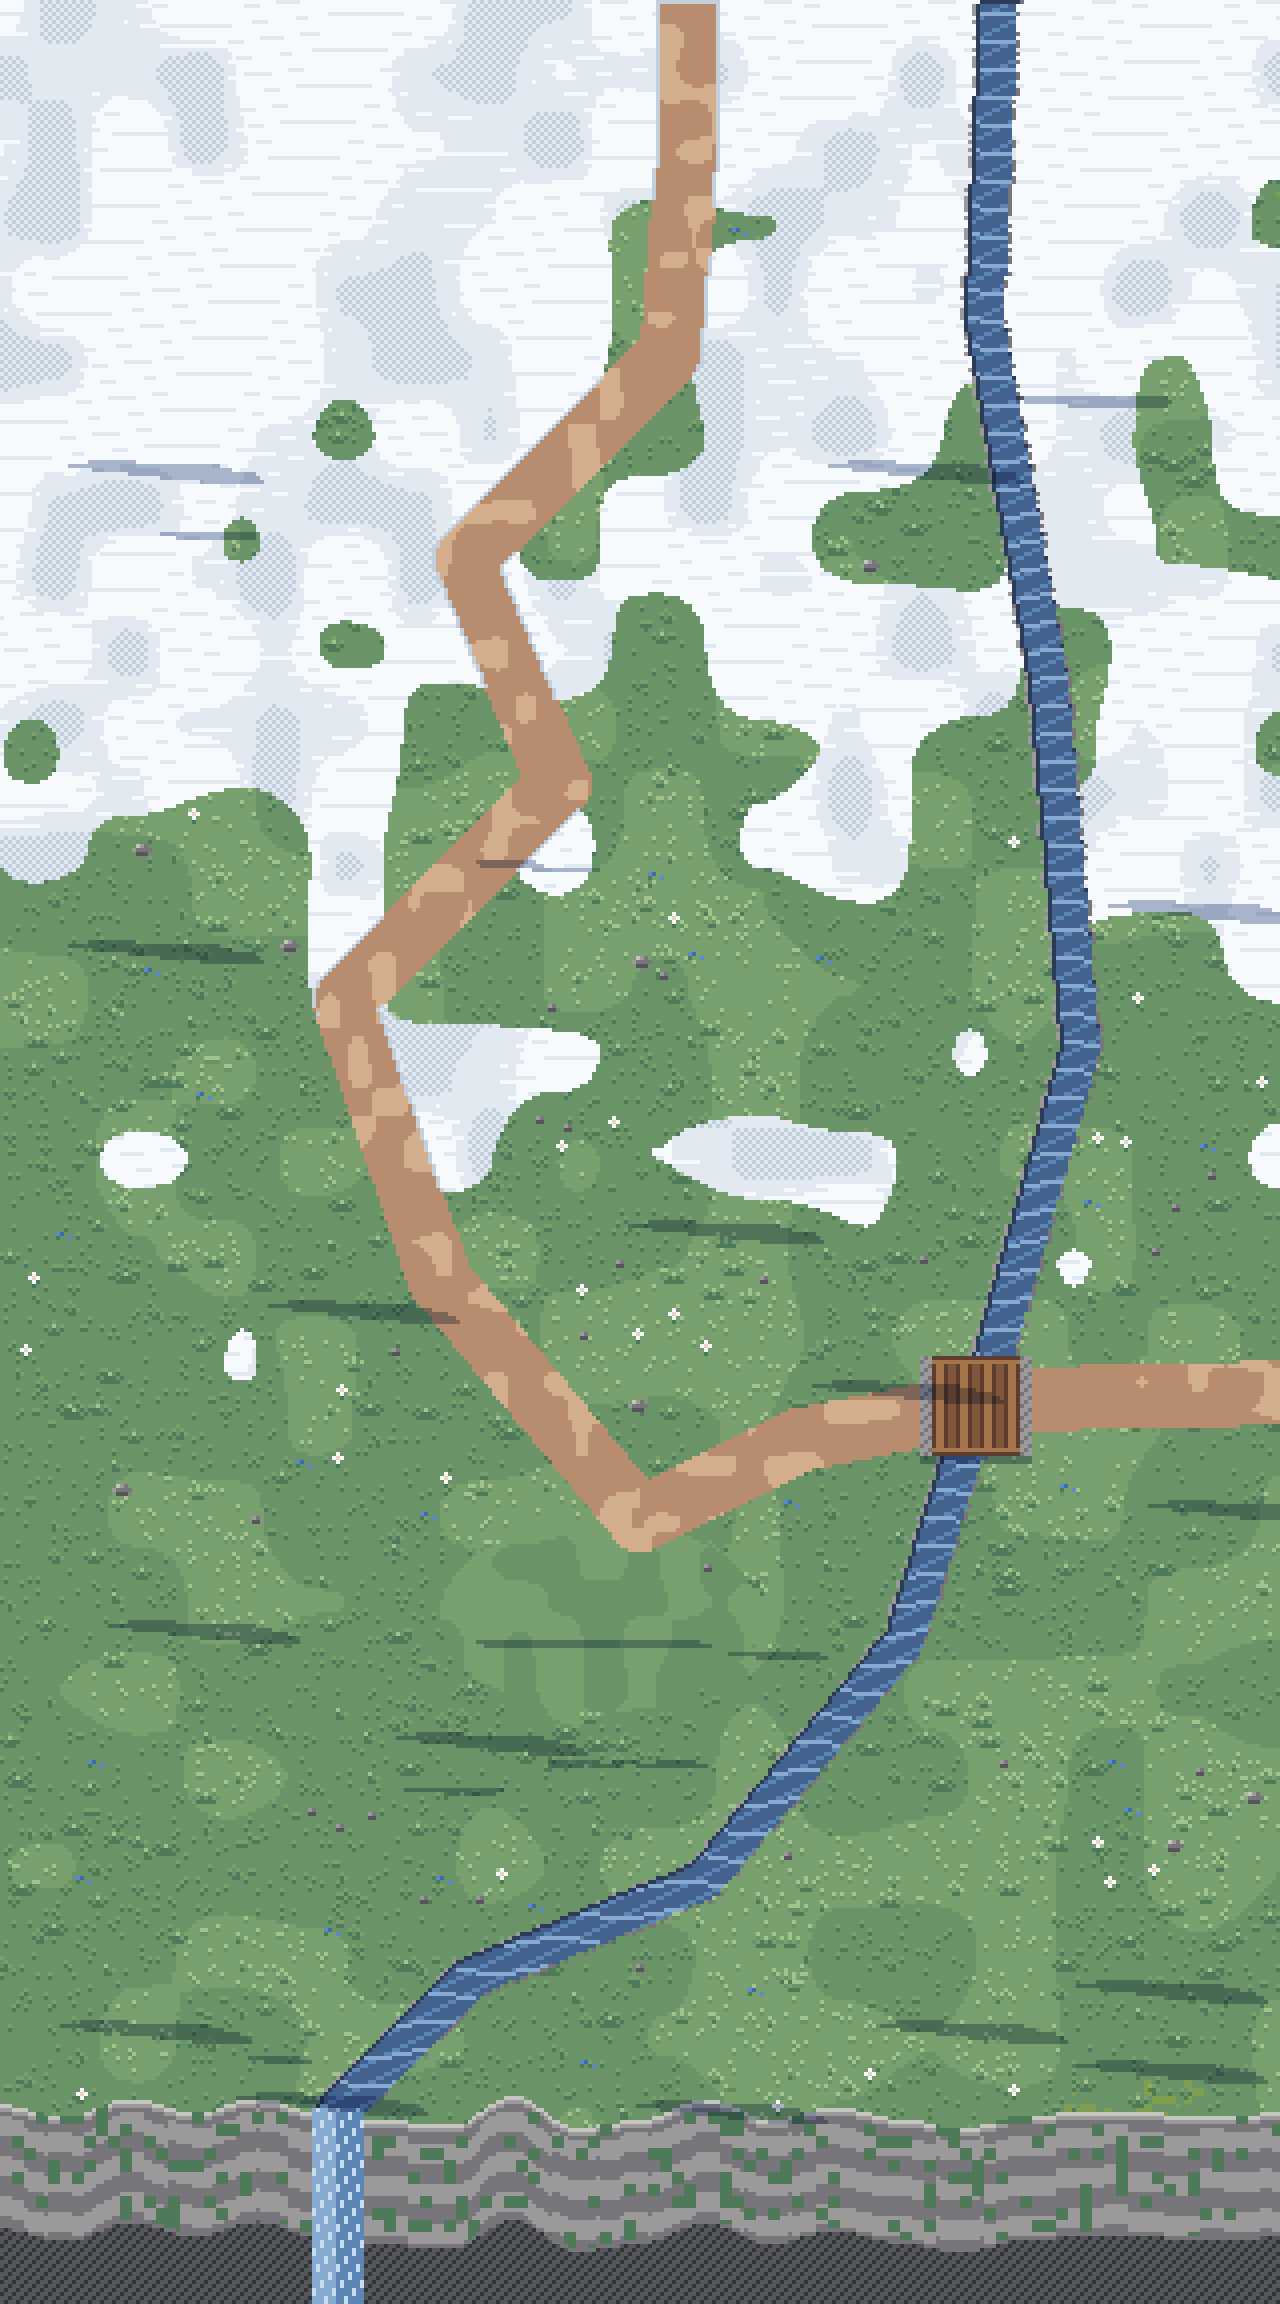
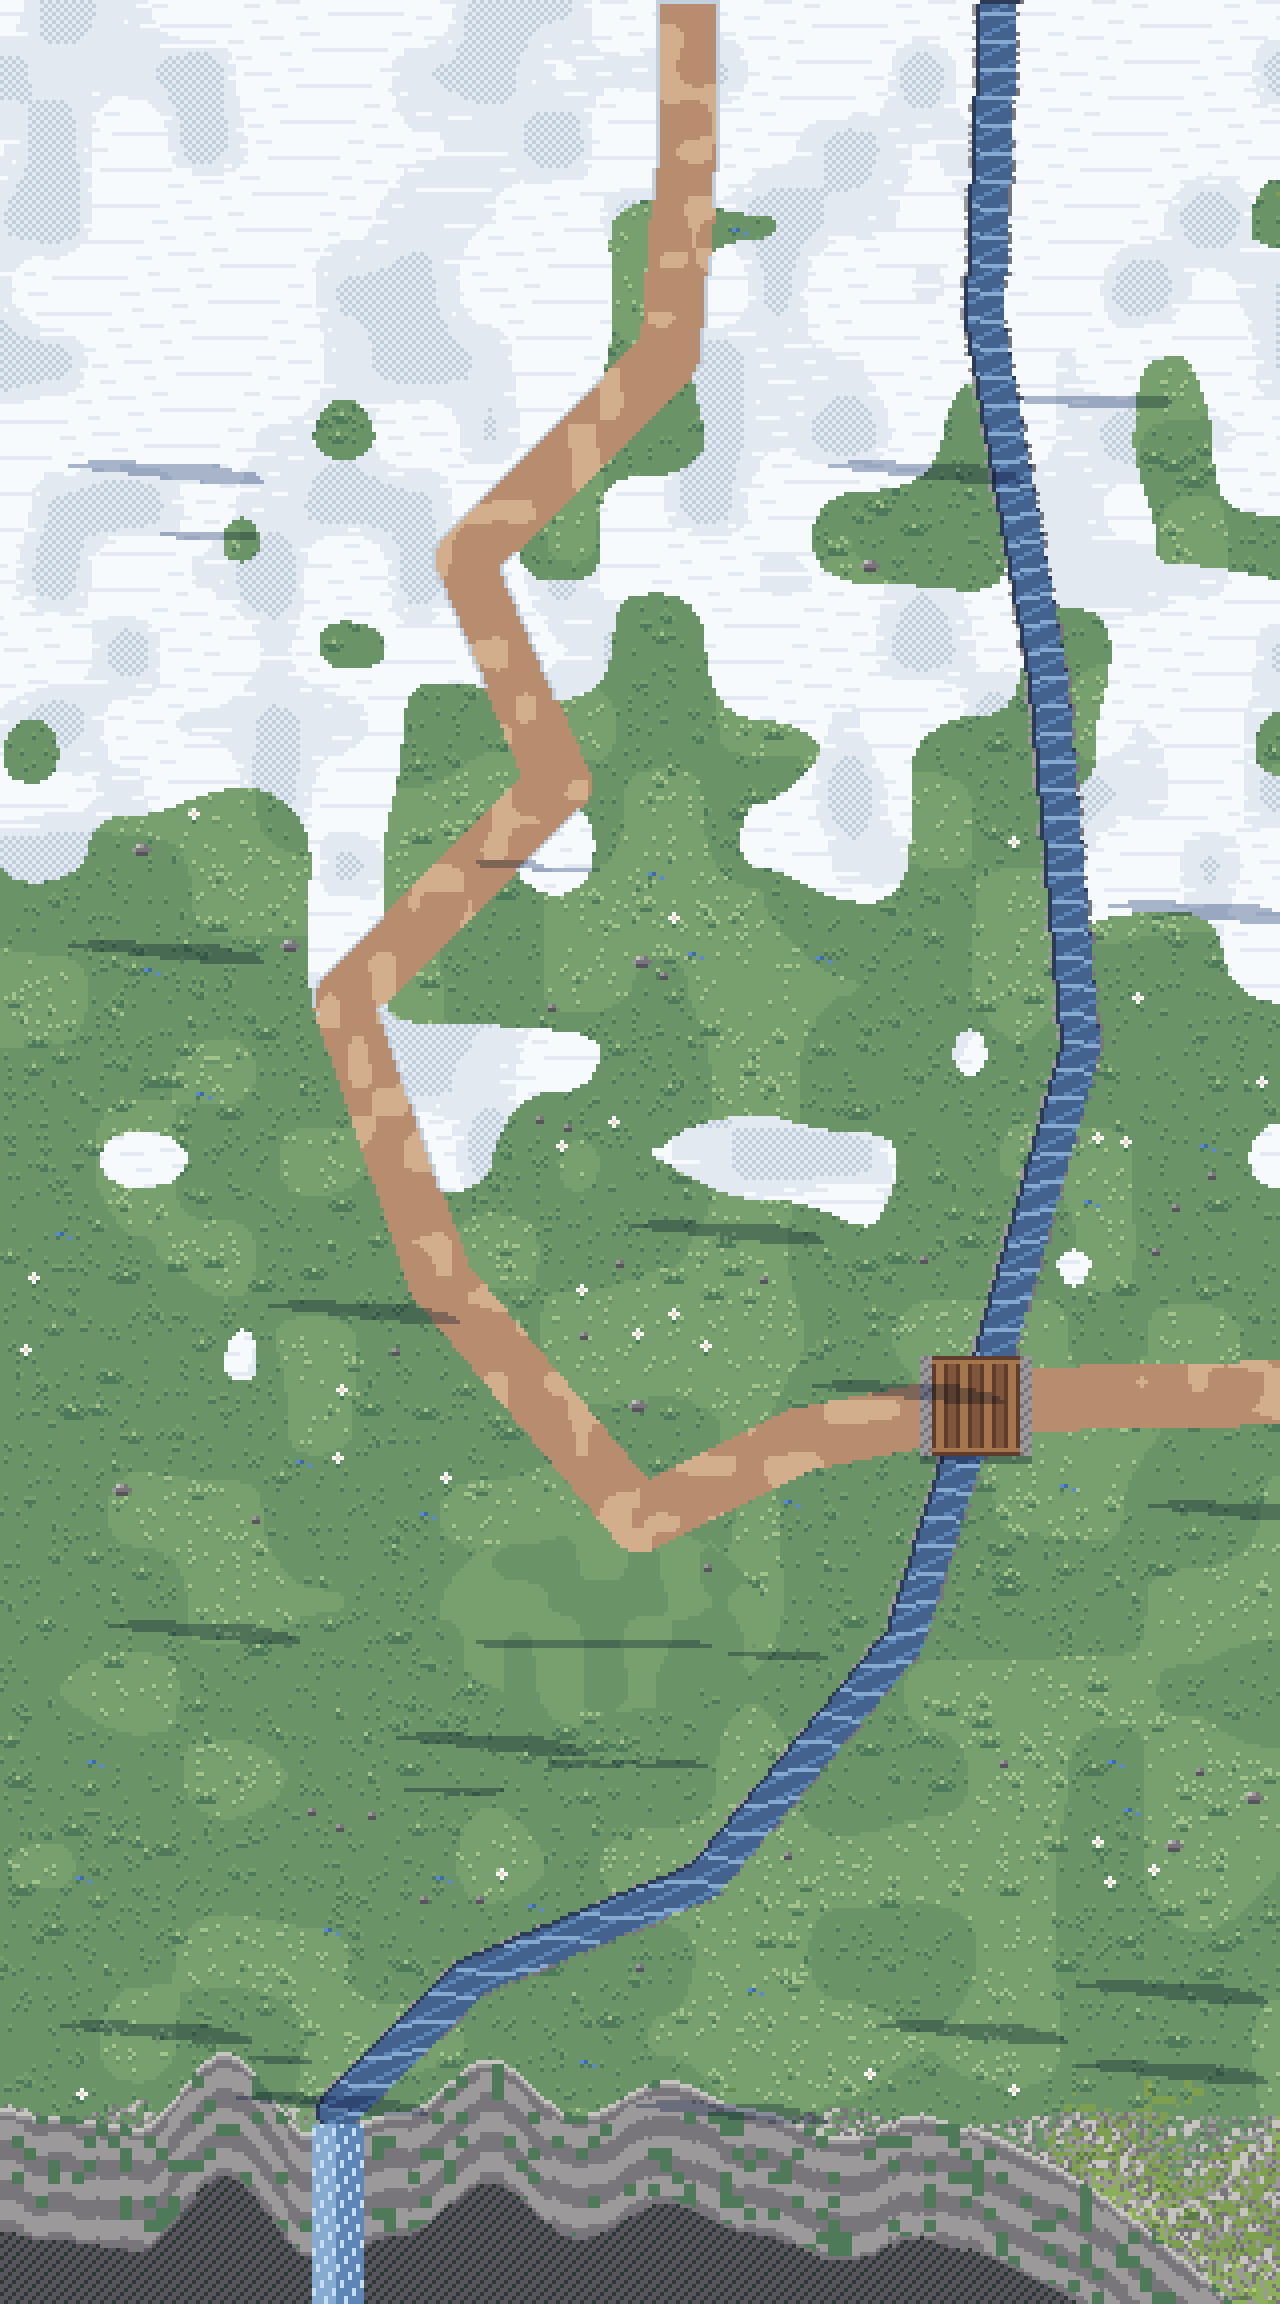
Review 15:54 for Claude A: a zone whose art reaches into the view (a tower rising from the zone below) is mounted while it is seen, with a test; region renders (ZONE_PREVIEW and LINT_OUT) drawn from every prop in region coordinates, so buildings are drawn whole; the Hollow's escarpment wanders off t
Claude-Session: https://claude.ai/code/session_01UudrmtYkicLNgZeuSjvjrK

Changed region(s): [[0.0625, 0.875, 1.0, 1.0], [0.0, 0.9062, 0.0312, 0.9688]]

diff --git a/lib/region-walk.ts b/lib/region-walk.ts
@@ -253,10 +253,50 @@ export function zonesToMount(
     new Set(cellsNear(region, view, m).map(({ col, row }) => `${col},${row}`));
   const close = near(margin);
   const kept = near(margin * 2);
+  const b = regionBounds(region);
+  // (a zone whose art reaches into the view, a tower standing in it whose body rises into
+  // the zone above, is mounted too, or the tower would vanish as its foot leaves the view)
+  const reaches = (t: RegionTile, m: number) => {
+    const r = zoneReach(t.id);
+    if (!r) return false;
+    const ox = (t.col - b.minCol) * TILE.width;
+    const oy = (t.row - b.minRow) * TILE.height;
+    return (
+      ox + r.x0 < view.x1 + m &&
+      ox + r.x1 > view.x0 - m &&
+      oy + r.y0 < view.y1 + m &&
+      oy + r.y1 > view.y0 - m
+    );
+  };
   return tiles
     .filter(
       (t) =>
-        close.has(`${t.col},${t.row}`) || (mounted.includes(t.id) && kept.has(`${t.col},${t.row}`)),
+        close.has(`${t.col},${t.row}`) ||
+        reaches(t, margin) ||
+        (mounted.includes(t.id) && (kept.has(`${t.col},${t.row}`) || reaches(t, margin * 2))),
     )
     .map((t) => t.id);
+}
+
+/** How far a zone's props reach past its own rectangle (zone pixels, its origin at 0, 0),
+ *  or none when they all stay inside it. */
+const reachCache = new Map<TileId, RegionRect | null>();
+export function zoneReach(id: TileId): RegionRect | null {
+  if (reachCache.has(id)) return reachCache.get(id) ?? null;
+  let r: RegionRect | null = null;
+  if (id !== 'garden') {
+    let x0 = 0;
+    let y0 = 0;
+    let x1: number = TILE.width;
+    let y1: number = TILE.height;
+    for (const [, , x, y, w, h] of zoneMaps[id].objects) {
+      x0 = Math.min(x0, x);
+      y0 = Math.min(y0, y);
+      x1 = Math.max(x1, x + w);
+      y1 = Math.max(y1, y + h);
+    }
+    if (x0 < 0 || y0 < 0 || x1 > TILE.width || y1 > TILE.height) r = { x0, y0, x1, y1 };
+  }
+  reachCache.set(id, r);
+  return r;
 }

diff --git a/lib/region-walk.test.ts b/lib/region-walk.test.ts
@@ -9,6 +9,8 @@ import {
   tileAt,
   tileOrigin,
   TILE,
+  zoneReach,
+  zonesToMount,
   type RegionId,
 } from './region-walk';
 import { regionLayout, zoneMaps, zoneOverhead, zonePorts } from './zone-maps';
@@ -209,4 +211,26 @@ const isRegion = (k: string): k is RegionId => k in regionLayout;
   console.log(
     'Two levels: a deck is reached only by its stairs, and both ends of a stair are kept.',
   );
+}
+
+// A zone whose art reaches out of its rectangle (a tower whose body rises into the zone
+// above) is mounted while that art is in view, even with its own rectangle out of view.
+{
+  let towers = 0;
+  for (const key of Object.keys(regionLayout)) {
+    if (!isRegion(key)) continue;
+    for (const t of regionTiles(key)) {
+      const r = zoneReach(t.id);
+      if (!r || r.y0 > -80) continue;
+      const o = tileOrigin(key, t);
+      // a thin view across the top of the overhang only, well above the zone itself
+      const view = { x0: o.x, x1: o.x + TILE.width, y0: o.y + r.y0, y1: o.y + r.y0 + 20 };
+      assert.ok(
+        zonesToMount(key, view).includes(t.id),
+        `${key}: ${t.id} is mounted while its art reaching ${-r.y0} px above it is in view`,
+      );
+      towers++;
+    }
+  }
+  console.log(`Mounting: ${towers} zones with art reaching far above them mount while it is seen.`);
 }

diff --git a/lib/zone-maps.ts b/lib/zone-maps.ts
@@ -1255,11 +1255,11 @@ export const zoneMaps: Record<ZoneId, ZoneMap> = {
       '2.9#14.5#23.9#18.',
       '2.9#13.5#24.9#4.8#6.',
       '16.2#5.5#38.8#6.',
-      '13.14#39.8#6.',
-      '13.13#12.9#33.',
-      '13.12#13.9#33.',
-      '2#3.6#2.11#6.4#4.9#4.3#26.',
-      '36#1.22#2.19#',
+      '12.15#2.3#34.8#6.',
+      '12.14#2.5#5.9#33.',
+      '11.14#2.7#4.9#33.',
+      '2#3.19#1.10#2.11#3.3#26.',
+      '80#',
       '80#',
       '80#',
       '80#',
@@ -7470,11 +7470,11 @@ export const zoneTerrain: Record<ZoneId, readonly string[]> = {
     '26.3~51.',
     '25.3~52.',
     '24.3~53.',
-    '23.3~54.',
-    '22.3~55.',
-    '21.3~56.',
-    '7.3^4.4^2.3~8.2^10.1~1^35.',
-    '19^4~6.6^5.8^1.7^7.17^',
+    '13.2^8.3~54.',
+    '12.4^6.3~4.3^48.',
+    '11.6^4.3~4.5^7.3^37.',
+    '7.3^1.7^2.3~4.8^3.3^3~1^1~34.',
+    '20^3~25^1~10^4.17^',
     '19^4~57^',
     '19^4~57^',
     '19^4~57^',

diff --git a/scripts/art/world_lint.py b/scripts/art/world_lint.py
@@ -374,21 +374,42 @@ def run(built: dict, layout: dict, sprites_of, overhead, previews: dict | None =
         with open(os.path.join(out, 'world-lint.txt'), 'w') as f:
             for v in sorted(violations):
                 f.write(f'{v[0]:10} {v[1]:18} {v[2]:16} {v[4]}\n')
-        if previews is not None:
-            _stitch(out, layout, previews, zones, violations)
+    # each region drawn whole (with ZONE_PREVIEW or LINT_OUT): reviews look at these
+    for folder in {d for d in (out, os.environ.get('ZONE_PREVIEW')) if d}:
+        os.makedirs(folder, exist_ok=True)
+        _stitch(folder, layout, previews or {}, zones, violations if folder == out else [], built, overhead)
     return violations
 
 
-def _stitch(out, layout, previews, zones, violations):
+def _stitch(out, layout, previews, zones, violations, built=None, overhead=()):
+    """A region drawn whole: every zone's ground, then every prop in region coordinates,
+    sorted by its foot across the whole region (overhead ones last), so a tower whose
+    body rises into the zone above is drawn whole, as the game draws it."""
     for region, places in layout.items():
         cols = [c for c, _r in places.values()]
         rows = [r for _c, r in places.values()]
         c0, r0 = min(cols), min(rows)
         img = Image.new('RGBA', ((max(cols) - c0 + 1) * W, (max(rows) - r0 + 1) * H), (30, 25, 23, 255))
+        props = []
         for z, (c, r) in places.items():
+            ox, oy = (c - c0) * W, (r - r0) * H
+            if built is not None and z in built:
+                img.alpha_composite(built[z]['ground_img'].convert('RGBA'), (ox, oy))
+                for (_oid, key, x, y) in built[z]['objects']:
+                    sp = built[z]['sprites'][key]
+                    props.append((oy + y + sp.h + (100000 if key in overhead else 0), ox + x, oy + y, sp))
+                continue
             src = previews.get(z) or (zones[z]['ground'] if z in zones else None)
             if src is not None:
-                img.alpha_composite(src.convert('RGBA'), ((c - c0) * W, (r - r0) * H))
+                img.alpha_composite(src.convert('RGBA'), (ox, oy))
+        for (_z, px, py, sp) in sorted(props, key=lambda p: p[0]):
+            pad = getattr(sp, 'pad', 0)
+            spr = sp.img.crop((pad, pad, pad + sp.w, pad + sp.h)).convert('RGBA')
+            # (clipped to the region picture: a prop may reach past the region's edge)
+            cx, cy = max(0, -px), max(0, -py)
+            if cx >= sp.w or cy >= sp.h or px >= img.width or py >= img.height:
+                continue
+            img.alpha_composite(spr, (px + cx, py + cy), (cx, cy))
         d = ImageDraw.Draw(img)
         for (zone, kind, _oid, box, _msg) in violations:
             if zone not in places:

diff --git a/scripts/art/frost_zones.py b/scripts/art/frost_zones.py
@@ -334,11 +334,24 @@ def hollow(frame: int = 0):
     cv = Canvas(W, H)
     turf_or_snow(cv, 'hollow', frame)
     # the escarpment's rim along the bottom, then its face falling away to the woodland
+    # (it wanders off the seam, and toward the Ridge it dies out as a scree slope rather
+    # than ending in a cut at the zone's edge: review 15:54)
     def rim(x):
-        return 524 + int(smooth_noise(x + ox, 0, 16, 871) * 10)
+        base = 512 + int(smooth_noise(x + ox, 0, 22, 871) * 26)
+        t = max(0.0, (x - 200) / 112)
+        return min(H, base + int(t * t * (H - base + 4)))
     scarp = set()
     for x in range(W):
         r = rim(x)
+        # the slope is too steep and loose to walk wherever the old face stood: no way
+        # down to the woodland or round onto the ridge here (the Ridge is the way up)
+        steep_top = min(r, 524 + int(smooth_noise(x + ox, 0, 16, 871) * 10))
+        for y in range(steep_top, r):
+            scarp.add((x, y))
+            if noise2(x, y, 876) > 0.62:  # scree: loose stones over the turf, more lower down
+                cv.set(x, y, ST[3] if noise2(x, y, 877) > 0.5 else ST[2])
+            elif noise2(x // 2, y // 2, 878) > 0.8:
+                cv.set(x, y, ST[4])
         for y in range(r, H):
             k = y - r
             c = ST[3] if (k + int(noise2(x // 6, 1, 872) * 3)) // 5 % 2 else ST[2]

diff --git a/scripts/art/zones.py b/scripts/art/zones.py
@@ -687,6 +687,8 @@ def build(name: str, fn, start: str):
                 strip.paste(sprite_map[key], x, y)
         strip.save(os.path.join(out, 'top.png'), worlds.SCALE)
     preview = os.environ.get('ZONE_PREVIEW')
+    if preview:
+        os.makedirs(preview, exist_ok=True)
     prev = None
     if preview or os.environ.get('LINT_OUT'):
         prev = Canvas(W, H)
